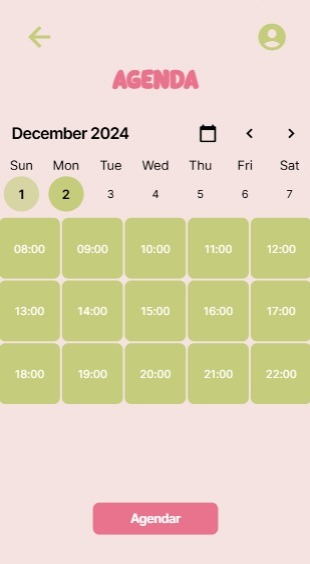
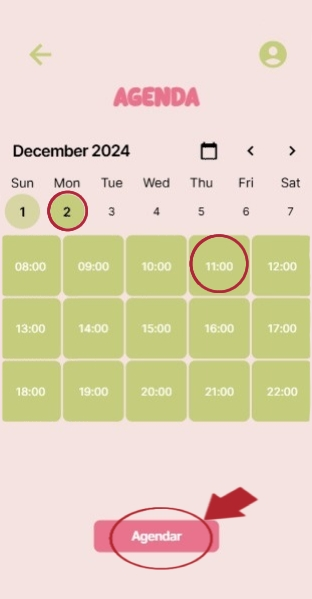
Add files via upload

diff --git a/sobre.html b/sobre.html
@@ -72,6 +72,14 @@
             <br>
         <img src="img/agenda.jpeg" alt="Descrição da imagem" class="imagem-sobre">
 
+        <h3>Adicionar vacina</h3>
+        <p id="aviso_vacina">Nesta página você pode adicionar um agendamento preenchendo os campos con as informações soliciatadas
+            abaixo, como por exemplo
+        </p>
+            <br>
+        <img src="img/adicionarvacina.jpeg" alt="Descrição da imagem" class="imagem-sobre">
+
+
         <h3>Carteirinha</h3>
         <p id="aviso_vacina">Voltando á página inicial, podemos ver a Carteirinha, que serve para que 
             você possa ver vacinas já aplicadas, ou adicionar. No centro podemos ver 
@@ -80,6 +88,8 @@
         </p>
             <br>
         <img src="img/carteirinha.jpeg" alt="Descrição da imagem" class="imagem-sobre">
+
+        
 </div>
 </div> 
 
